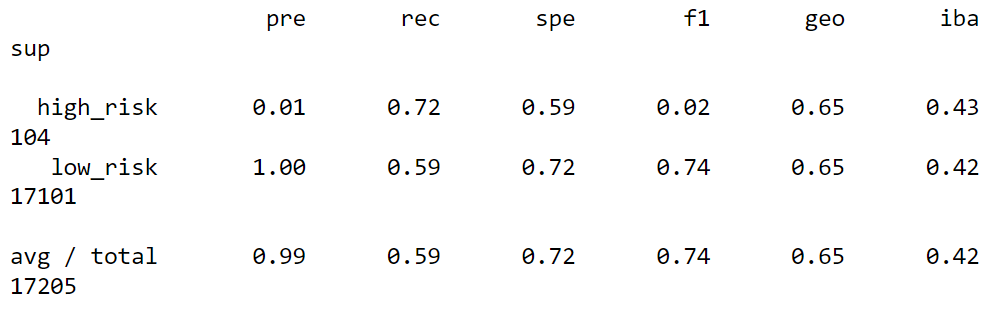
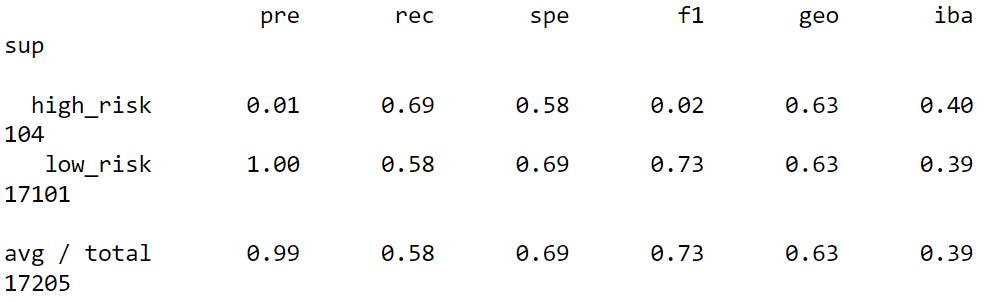
editted

diff --git a/README.md b/README.md
@@ -21,14 +21,14 @@ In this analysis, a credit card credit dataset from LendingClub will be run thro
 
 ### Undersample 
 * ClusterCentroids
-  * Balanced accuracy score of .6547 
-  * High-Risk recall of .55
+  * Balanced accuracy score of .5558 
+  * High-Risk recall of .57
 ![CC_Scores](https://user-images.githubusercontent.com/95837693/164953085-14baa952-75dc-46bf-8cde-dd95f692706f.PNG)
 
 ### Combonation Oversample and Undersample 
 * SMOTEENN 
-  * Balanced accuracy score of .5442
-  * High-Risk recall of .72
+  * Balanced accuracy score of .6337
+  * High-Risk recall of .69
 ![SMOTEEN_Scores](https://user-images.githubusercontent.com/95837693/164953097-0791c2a8-d289-49e5-8510-15f81deb0614.PNG)
 
 ### Ensemble Classifiers 
